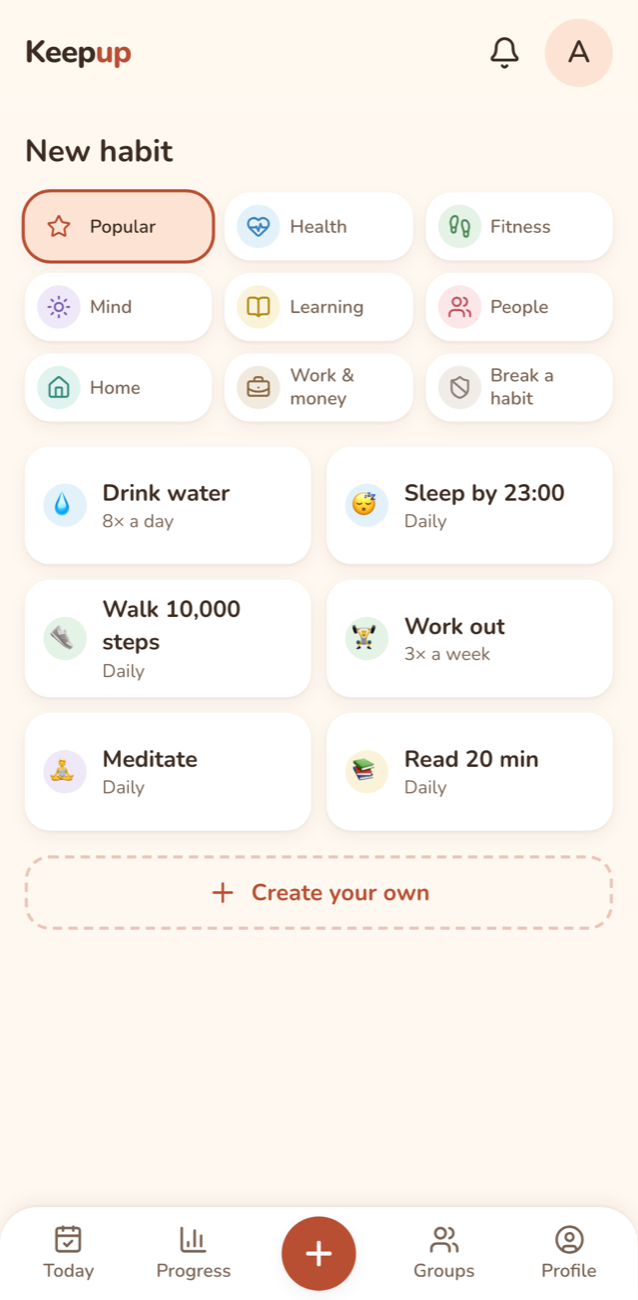
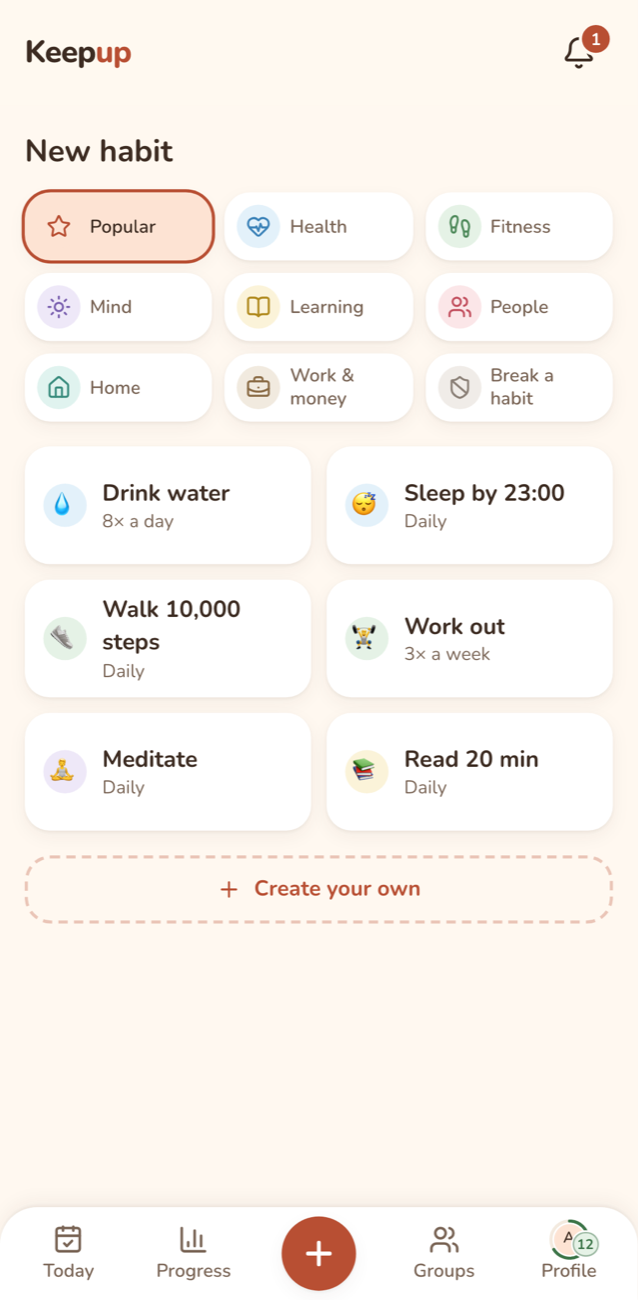
docs: README for M5, with Achievements, celebration and Recaps screenshots

diff --git a/scripts/readme/screenshots.spec.ts b/scripts/readme/screenshots.spec.ts
@@ -1,6 +1,6 @@
 import { execSync } from "node:child_process";
 import { expect, test } from "@playwright/test";
-import { completeOnboarding, signUp, uniqueEmail } from "../../e2e/helpers/auth";
+import { completeOnboarding, setCelebrations, signUp, uniqueEmail } from "../../e2e/helpers/auth";
 import { createGroup } from "../../e2e/helpers/groups";
 import { createHabit } from "../../e2e/helpers/habits";
 
@@ -32,7 +32,12 @@ select h.id, s.d::date, private.period_outcome(h, s.d::date), now()
     private.habit_period_start(h, private.habit_today(h, now()))::timestamp - private.period_step(h.period),
     private.period_step(h.period)) s(d)
  where h.owner_id = (select id from u)
-on conflict (habit_id, period_start) do nothing;`;
+on conflict (habit_id, period_start) do nothing;
+-- Count the seeded history once and quietly, as the app did for existing people.
+update public.profiles set created_at = now() - interval '40 days' where id = (select id from u);
+select private.backfill_xp();
+select private.backfill_milestones();
+select private.backfill_badges();`;
   execSync("docker exec -i supabase_db_keepup psql -U postgres -d postgres -v ON_ERROR_STOP=1 -q", {
     input: sql,
     stdio: ["pipe", "ignore", "inherit"],
@@ -86,7 +91,11 @@ test("README screenshots", async ({ page, context }) => {
   await page.getByRole("button", { name: /: \d+ of \d+ done$/ }).last().click();
   await page.screenshot({ path: `${OUT}/calendar.png` });
 
-  await page.getByRole("link", { name: "Back to Progress" }).click();
+  await page.goto("/progress/recaps");
+  await expect(page.getByRole("region", { name: "Weeks" }).getByRole("listitem").first()).toBeVisible();
+  await page.screenshot({ path: `${OUT}/recaps.png` });
+
+  await page.goto("/progress");
   await page.getByRole("link", { name: /Meditate/ }).click();
   await expect(page).toHaveURL(/\/habits\/[0-9a-f-]{36}$/);
   await page.screenshot({ path: `${OUT}/habit.png` });
@@ -103,8 +112,26 @@ test("README screenshots", async ({ page, context }) => {
     await page.waitForTimeout(400);
   }
   await page.evaluate(() => window.scrollTo(0, 0));
-  await page.waitForTimeout(3500); // let the scene settle: the new sprout grows, then rests
+  await page.waitForTimeout(7000); // let the scene settle: each big reveal flies to its spot, then rests
   await page.screenshot({ path: `${OUT}/kid-view.png` });
+
+  // Achievements, then one fresh level-up in Full mode. The backfill marked everything seen, and any toast
+  // on the way here marked what it showed, so un-see the top level right before the page that plays it.
+  await page.goto("/profile/achievements");
+  await expect(page.getByRole("heading", { name: "Achievements" })).toBeVisible();
+  await page.screenshot({ path: `${OUT}/achievements.png` });
+
+  await setCelebrations(page, "full");
+  execSync("docker exec -i supabase_db_keepup psql -U postgres -d postgres -v ON_ERROR_STOP=1 -q", {
+    input: `update public.level_ups set seen_at = null where user_id = (select id from auth.users where email = '${email}')
+              and level = (select max(l.level) from public.level_ups l join auth.users au on au.id = l.user_id where au.email = '${email}');`,
+    stdio: ["pipe", "ignore", "inherit"],
+  });
+  await page.goto("/today");
+  await expect(page.getByRole("alertdialog", { name: "Celebration" })).toContainText(/Level \d+/);
+  await page.waitForTimeout(400); // the confetti mid-flight
+  await page.screenshot({ path: `${OUT}/celebration.png` });
+  await page.keyboard.press("Escape");
 
   // Settings → Notifications: a non-default choice, and this device listed (a stand-in push
   // subscription, as in e2e/notifications.spec.ts: headless Chromium can't subscribe).

diff --git a/README.md b/README.md
@@ -25,6 +25,10 @@ A warm, mobile-first habit tracker for one person and for families. Pick a habit
   - an optional end (30 days, 8 weeks, a date…), shown as "Day 12 of 30"; at the end, keep going or finish it;
   - edit the habit; delete it (only if it has no check-ins) or archive it (keeps its history).
 - **Progress:** a "Your week" card (tap a day to see what you did), a month-by-month **calendar** back to your first habit, and active, finished and archived habits by category, each with its last 7 days as dots. Finished habits can start again.
+- **XP and levels:** every counted check-in earns XP (+10, growing with your streak up to +30), finished periods and streak milestones add more, and levels grow from Seedling to Forest. A ring around your Profile avatar fills towards the next level; Profile shows "Level 7 · Sprout" with a bar.
+- **Badges and milestones:** 24 badges under Profile → Achievements (no tiers): earned in colour with the date, locked ones with a hint. Streak milestones (1, 2, 5, 7 days… 365) arrive in the Inbox, once per streak, "Back to 30" after a break. Level-ups and badges get a short full-screen moment, or a quiet toast (Settings → Celebrations).
+- **Rest days:** a week of a daily habit earns one (up to 2); a missed day uses it automatically and the streak stays safe.
+- **Recaps:** a weekly and a monthly recap of your wins in the Inbox, and their history under Progress → Recaps.
 - **Onboarding:** name, detected time zone and week start, then pick up to 3 habits to start with.
 - **Fair streaks:**
   - Periods follow your time zone and your week start (Sunday or Monday).
@@ -40,7 +44,7 @@ A warm, mobile-first habit tracker for one person and for families. Pick a habit
 - **Reminders and pushes:**
   - a daily summary at your hour, or a habit's own time ("Remind me at…", on the quarter hour);
   - group check-ins, approvals, nudges and kids' moments can reach your phone;
-  - per kind: Sound, Silent or Inbox only (Silent by default);
+  - per kind: Sound, Silent or Inbox only (Silent by default; Achievements: Inbox only);
   - pause all, and mute a habit.
 - **Offline:** check in without signal. It's saved on the phone and counts for the day you tapped once you're back online. The last Today and kid view open offline.
 
@@ -48,6 +52,12 @@ A warm, mobile-first habit tracker for one person and for families. Pick a habit
   <img src="docs/screenshots/habit.png" width="220" alt="A habit's page: today's check-in with undo, streaks, history">
   <img src="docs/screenshots/kid-view.png" width="220" alt="The kid view: a garden scene above big habit buttons, open habits first and a done one at the bottom">
   <img src="docs/screenshots/notifications.png" width="220" alt="Settings, Notifications: Sound, Silent or Inbox only for each kind, and this phone listed as a device">
+</p>
+
+<p align="center">
+  <img src="docs/screenshots/achievements.png" width="220" alt="Profile, Achievements: earned badges in colour with icons, locked ones faint">
+  <img src="docs/screenshots/celebration.png" width="220" alt="A level-up moment: a sprout, Level 12, Sapling, soft confetti over Today">
+  <img src="docs/screenshots/recaps.png" width="220" alt="Progress, Recaps: one card per week with check-ins done and the longest streak">
 </p>
 
 ## Interesting problems
@@ -59,6 +69,8 @@ A warm, mobile-first habit tracker for one person and for families. Pick a habit
 **Push decided in the database.** Pushes start from many places: a check-in, an approval, a pause, a cron job. So the decision isn't in app code. A trigger on the feed table sets each row's category and `push` from the person's preferences (Pause all and mutes always win), then `pg_net` calls an Edge Function that sends one push per device. A missing secret only logs a warning and never blocks the action. Each push carries a tag, so a newer one replaces the older, and on the last check-in of a group habit the superseded push is skipped: the family buzzes once, not four times.
 
 **Offline taps count the tap day.** Every tap gets a client-made id, so a resend after a lost response can't count twice. A queued tap carries the phone's time, and the server uses `least(tap, arrival)` for the day, accepted from 3 days back, so a fast clock can't push a tap into tomorrow. Even online taps go queue-first: saved on the phone, then sent, and removed only once the server answers. The database stays the only judge of what counts.
+
+**An XP ledger a late check-in can't fool.** XP is an append-only table with one unique key per grant, written by one function, so every grant is idempotent and an undo is a negative row. Period XP, streak milestones and badges hang off a trigger that fires when a period is settled and again when an offline check-in upgrades it from missed to done up to three days later. Milestones are keyed by the streak's first day, so a merged streak can earn its 14-day bonus on a later day, but never twice. Rest days are computed from the same results, so the upgrade hands back a used rest day by itself. Levels are synced once at the end of any path that touches many habits, in a fixed order, so finalization can't deadlock.
 
 ## Roadmap
 
